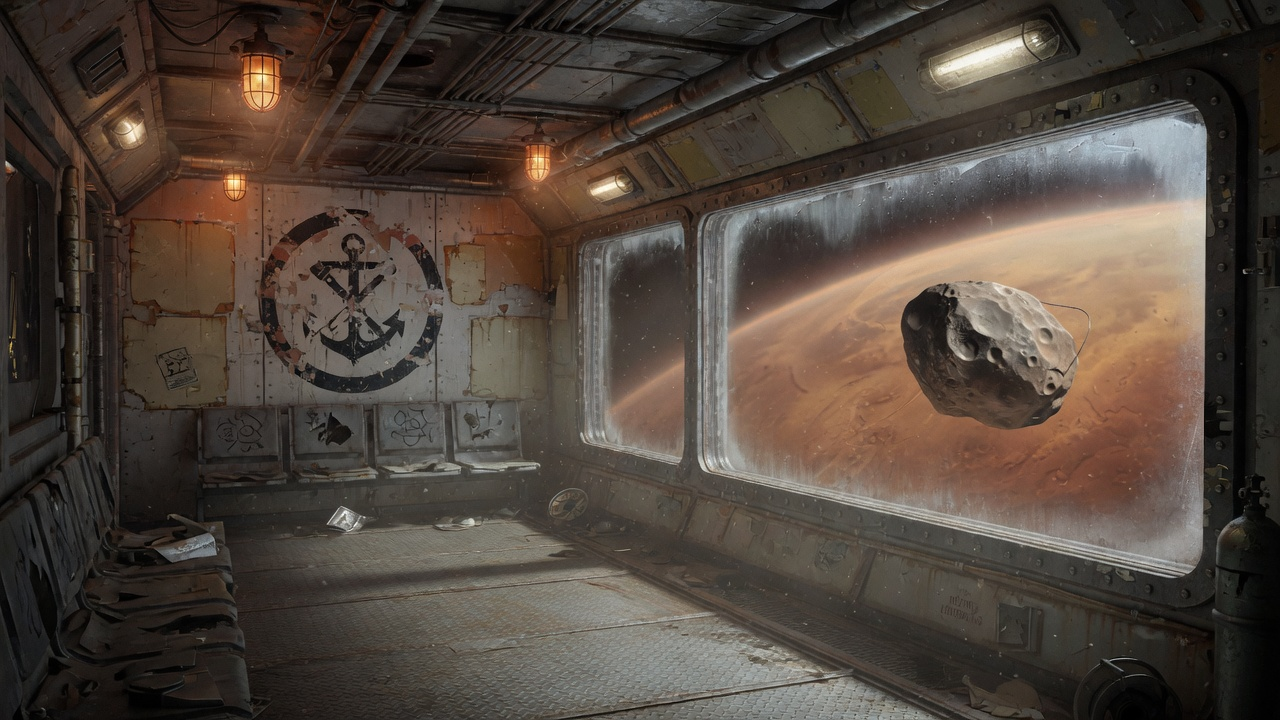
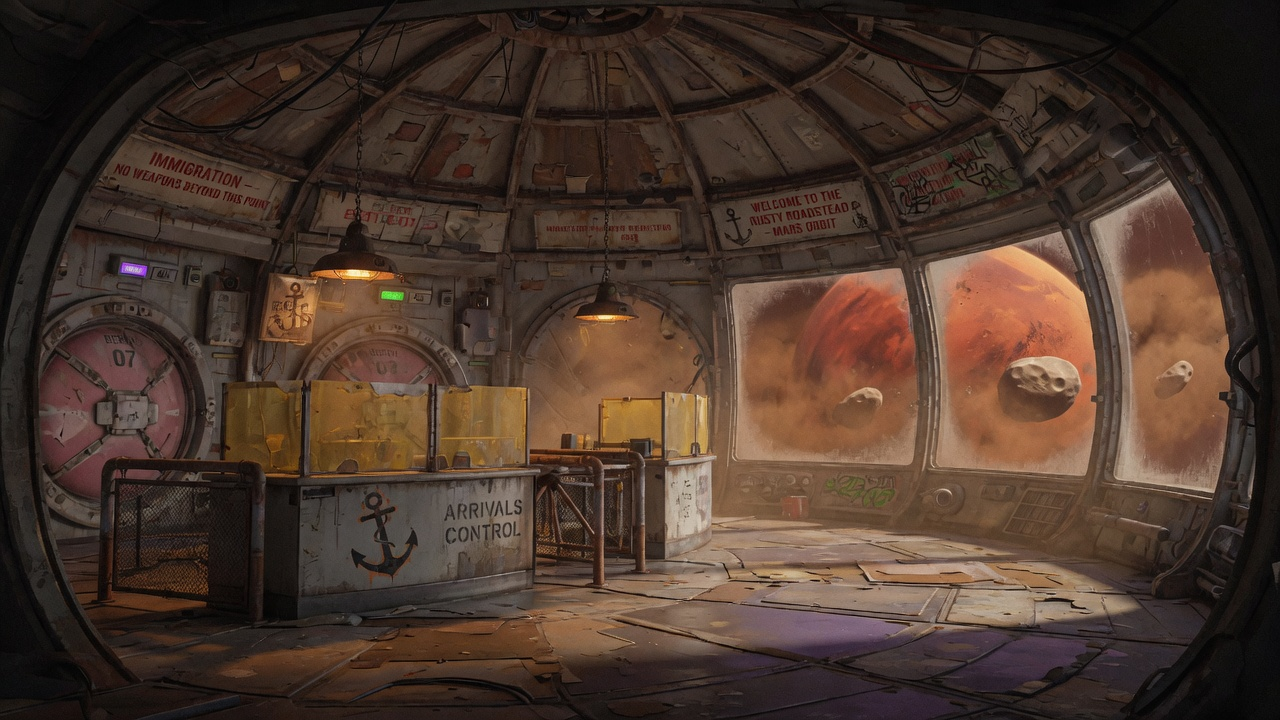
Every station gets its own bar: spec-driven walkable interiors
Generalize the Rusty Roadstead kit (airlock vestibule -> tube -> round
immigration hall -> bar) so every walkable haven is data, not hand-code.

- HavenInterior.BuildComplex(StationSpec) builds the one shared geometry; a
  StationSpec supplies the name, immigration authority, a deadpan wall-quip, the
  bar's name, and the two Gen-AI backdrops (hall + bar). Specs[] lists the four
  havens; DockedDeck builds+caches one complex per station on first dock.
  Adding an interior station is now: a scenario body + a one-line spec + 2 images.
- Three new stations, each themed to its world with its own grok backdrops:
  Cinder Roost (Venus' sulphur clouds / The Cinder Lounge), Ringside Exchange
  (Saturn's rings / The Ringside Bar), The Tilt (Uranus, sideways rings, cold and
  lonely / The Tilt Bar). Every hall shows its world's berth-hatch concourse and
  every bar its planet through a viewport.
- Start points now cover all four docked (?start=cinder-roost|space-bar|ringside
  |the-tilt) via a DockedStarts id->body map reusing the one docked-arrival path
  in ApplyStart / PlaceShipForStart.
- Resized the Rusty Roadstead hall backdrop to ~16:9 so the domed concourse art
  isn't vertically stretched.

Verified in-browser: walked into Ringside and Cinder Roost (correct per-station
names, quips, immigration authority, and planet view); no console errors. The
Tilt shares the identical code path. Build clean, 0 warnings.
[…]

diff --git a/src/SpaceSails.Client/Rendering/HavenInterior.cs b/src/SpaceSails.Client/Rendering/HavenInterior.cs
@@ -2,31 +2,61 @@ namespace SpaceSails.Client.Rendering;
 
 /// <summary>
 /// Walkable haven interiors — the "go ashore" side of docking (2026-07-07; walk-through tube +
-/// round immigration hall + bar, 2026-07-08). A client-side <c>bodyId → </c><see cref="DeckPlan"/>.
+/// round immigration hall + bar, 2026-07-08; spec-driven for every station, 2026-07-08).
 ///
 /// The Expanse model (owner): docking mates the ship's airlock to the station by a <b>narrow
-/// umbilical with automatic doors</b>, and you <b>walk</b> across — no teleport. And the station is
-/// much bigger than the ship: a small-airport-sized structure. So a docked haven welds, in one
-/// coordinate space: the ship (airlock a defensible port vestibule) → the tube → a <b>big round
-/// entrance hall</b> (a 12-sided ring — <b>10 other berths' hatches sealed</b>, so it reads like a
-/// station with a dozen ships docked; a Mars-immigration desk, à la Total Recall; signage) → a wide
-/// door → the <b>bar</b>, tables you walk up to. The top-down view follows you
-/// (<see cref="DeckPlan.FollowCam"/>); the welded deck is ~80 du long.
+/// umbilical with automatic doors</b>, and you <b>walk</b> across — no teleport. Each station is far
+/// bigger than the ship (small-airport-sized) and <b>each one is different</b>, named for and themed
+/// to where it sits. So a docked haven welds, in one coordinate space: the ship (airlock a defensible
+/// port vestibule) → the tube → a <b>big round entrance hall</b> (a 12-sided ring — 10 other berths'
+/// hatches sealed, so it reads like a dozen ships are docked; a Total-Recall immigration desk;
+/// signage) → a wide door → the <b>bar</b>, tables you walk up to. Confidential work (owner) changes
+/// hands here, face to face at a table — no electronic trace. The top-down view follows you
+/// (<see cref="DeckPlan.FollowCam"/>).
 ///
-/// First up: <b>The Rusty Roadstead</b> off Mars — rust-red planet and Phobos out the hall glass.
+/// Every station shares one geometry <see cref="BuildComplex"/>; a <see cref="StationSpec"/> supplies
+/// the name, the immigration authority, the deadpan quip, and the two Gen-AI backdrops (hall + bar).
 /// </summary>
 public static class HavenInterior
 {
+    /// <summary>One walkable station: which body, what it's called, and its themed dressing.</summary>
+    private sealed record StationSpec(
+        string BodyId, string Name, string Authority, string Quip, string BarName,
+        string HallArt, string BarArt);
+
+    // The grey-market docks with walkable interiors, each themed to its world (vision par. 8).
+    private static readonly StationSpec[] Specs =
+    [
+        new("the-space-bar", "THE RUSTY ROADSTEAD", "MARS", "most guests stay two weeks", "THE ROADSTEAD BAR",
+            "art/the-rusty-roadstead-lobby.jpg", "art/the-roadstead-bar.jpg"),
+        new("cinder-roost", "CINDER ROOST", "VENUS", "mind the sulphur, spacer", "THE CINDER LOUNGE",
+            "art/cinder-roost-hall.jpg", "art/cinder-roost-bar.jpg"),
+        new("ringside-exchange", "RINGSIDE EXCHANGE", "SATURN", "trade fast — the rings don't wait", "THE RINGSIDE BAR",
+            "art/ringside-hall.jpg", "art/ringside-bar.jpg"),
+        new("the-tilt", "THE TILT", "URANUS", "everything's sideways out here", "THE TILT BAR",
+            "art/the-tilt-hall.jpg", "art/the-tilt-bar.jpg"),
+    ];
+
+    private static readonly Dictionary<string, DeckPlan> Cache = new();
+
     /// <summary>Does this haven have a walkable interior (so docking should weld on a tube)?</summary>
-    public static bool HasInterior(string bodyId) => bodyId == "the-space-bar";
+    public static bool HasInterior(string bodyId) => System.Array.Exists(Specs, s => s.BodyId == bodyId);
 
     /// <summary>The docked complex for a body — ship + tube + hall + bar as one walkable plan — or
-    /// null if that haven has no deck to walk (yet). Built once, lazily, and shared.</summary>
-    public static DeckPlan? DockedDeck(string bodyId) => bodyId switch
+    /// null if that haven has no deck to walk. Built once per station, lazily, and shared.</summary>
+    public static DeckPlan? DockedDeck(string bodyId)
     {
-        "the-space-bar" => RustyRoadstead.Value,
-        _ => null,
-    };
+        if (System.Array.Find(Specs, s => s.BodyId == bodyId) is not { } spec)
+        {
+            return null;
+        }
+        if (!Cache.TryGetValue(bodyId, out DeckPlan? deck))
+        {
+            deck = BuildComplex(spec);
+            Cache[bodyId] = deck;
+        }
+        return deck;
+    }
 
     // --- The docking-tube umbilical (deck units), mouthing at the ship's airlock vestibule hatch ---
     private const float TubeLeft = 1f;      // the narrow walkway's port wall (hatch gap is x 1..4)
@@ -42,130 +72,127 @@ public static class HavenInterior
     private static readonly float HallBottomY = HallCenterY - HallApothem; // the tube mates here (south edge)
     private static readonly float HallTopY = HallCenterY + HallApothem;    // the bar opens off here (north edge)
 
-    // --- The bar, off the hall's north door — big and cavernous, a red-planet view along the back ---
+    // --- The bar, off the hall's north door — big and cavernous, a local-planet view along the back ---
     private const float BarLeft = -14f;
     private const float BarRight = 19f;
     private static readonly float BarTopY = HallTopY + 22f;
 
-    private static class RustyRoadstead
+    private static float Lerp(float a, float b, float t) => a + (b - a) * t;
+
+    private static DeckPlan BuildComplex(StationSpec spec)
     {
-        internal static readonly DeckPlan Value = Build();
+        DeckPlan ship = DeckPlan.Ship;
 
-        private static float Lerp(float a, float b, float t) => a + (b - a) * t;
+        // The bare ship seals its airlock hatch (x 1..4); the complex opens it and mates the tube.
+        var hatch = new DeckPlan.Wall(1, ShipHatchY, 4, ShipHatchY, false, true);
 
-        private static DeckPlan Build()
+        var walls = new List<DeckPlan.Wall>(ship.Walls.Where(w => !w.Equals(hatch)));
+        var doors = new List<DeckPlan.Door>();
+        var labels = new List<(float X, float Y, string Text)>(ship.RoomLabels);
+
+        // Tube: the umbilical from the ship's hatch up to the hall's south edge.
+        walls.Add(new(TubeLeft, ShipHatchY, TubeLeft, HallBottomY, false, true));
+        walls.Add(new(TubeRight, ShipHatchY, TubeRight, HallBottomY, false, true));
+        doors.Add(new(TubeLeft, ShipHatchY + 1, TubeRight, ShipHatchY + 1)); // ship-end auto door
+        doors.Add(new(TubeLeft, HallBottomY - 1, TubeRight, HallBottomY - 1)); // hall-end auto door
+
+        // The round hall ring. Vertices at (15 + 30k)°, so edges are centred on the compass points;
+        // edge 8 faces south (our tube) and edge 2 faces north (the bar). Every other edge is a
+        // sealed berth — a real wall with a cold "locked" hatch drawn on it and a BERTH sign inside.
+        var v = new (float X, float Y)[HallSides];
+        for (int k = 0; k < HallSides; k++)
         {
-            DeckPlan ship = DeckPlan.Ship;
-
-            // The bare ship seals its airlock hatch (x 1..4); the complex opens it and mates the tube.
-            var hatch = new DeckPlan.Wall(1, ShipHatchY, 4, ShipHatchY, false, true);
-
-            var walls = new List<DeckPlan.Wall>(ship.Walls.Where(w => !w.Equals(hatch)));
-            var doors = new List<DeckPlan.Door>();
-            var labels = new List<(float X, float Y, string Text)>(ship.RoomLabels);
-
-            // Tube: the umbilical from the ship's hatch up to the hall's south edge.
-            walls.Add(new(TubeLeft, ShipHatchY, TubeLeft, HallBottomY, false, true));
-            walls.Add(new(TubeRight, ShipHatchY, TubeRight, HallBottomY, false, true));
-            doors.Add(new(TubeLeft, ShipHatchY + 1, TubeRight, ShipHatchY + 1)); // ship-end auto door
-            doors.Add(new(TubeLeft, HallBottomY - 1, TubeRight, HallBottomY - 1)); // hall-end auto door
-
-            // The round hall ring. Vertices at (15 + 30k)°, so edges are centred on the compass points;
-            // edge 8 faces south (our tube) and edge 2 faces north (the bar). Every other edge is a
-            // sealed berth — a real wall with a cold "locked" hatch drawn on it and a BERTH sign inside.
-            var v = new (float X, float Y)[HallSides];
-            for (int k = 0; k < HallSides; k++)
-            {
-                double a = (15 + 30 * k) * System.Math.PI / 180.0;
-                v[k] = (HallCenterX + HallR * (float)System.Math.Cos(a), HallCenterY + HallR * (float)System.Math.Sin(a));
-            }
-
-            int berth = 2; // our own berth is #1
-            for (int k = 0; k < HallSides; k++)
-            {
-                (float X, float Y) a = v[k], b = v[(k + 1) % HallSides];
-                if (k == 8) // south edge: our tube mouth (gap x 1..4)
-                {
-                    walls.Add(new(a.X, a.Y, TubeLeft, a.Y, false, true));
-                    walls.Add(new(TubeRight, b.Y, b.X, b.Y, false, true));
-                }
-                else if (k == 2) // north edge: the wide door to the bar (gap x -1..6)
-                {
-                    walls.Add(new(a.X, a.Y, 6, a.Y, false, true));
-                    walls.Add(new(-1, b.Y, b.X, b.Y, false, true));
-                    doors.Add(new(-1, a.Y, 6, a.Y)); // wide auto door
-                }
-                else // a sealed berth
-                {
-                    walls.Add(new(a.X, a.Y, b.X, b.Y, false, true));
-                    doors.Add(new(Lerp(a.X, b.X, 0.25f), Lerp(a.Y, b.Y, 0.25f),
-                                  Lerp(a.X, b.X, 0.75f), Lerp(a.Y, b.Y, 0.75f), Locked: true));
-                    float mx = (a.X + b.X) / 2, my = (a.Y + b.Y) / 2;
-                    labels.Add((HallCenterX + (mx - HallCenterX) * 0.8f, HallCenterY + (my - HallCenterY) * 0.8f, $"⚓{berth:00}"));
-                    berth++;
-                }
-            }
-
-            // Mars-immigration desk (Total Recall): two counters with a central GATE aligned to the
-            // tube, so you walk straight off the umbilical through the checkpoint. Officer to one side.
-            float deskY = HallBottomY + 6;
-            walls.Add(new(-7, deskY, 1, deskY, false, false)); // counter, port of the gate
-            walls.Add(new(4, deskY, 9, deskY, false, false));  // counter, starboard of the gate (gate gap x 1..4)
-            labels.Add((HallCenterX, HallBottomY + 7.5f, "MARS IMMIGRATION"));
-            labels.Add((HallCenterX, HallBottomY + 2.5f, "most guests stay two weeks"));
-            labels.Add((HallCenterX, HallCenterY + 3, "⚓ THE RUSTY ROADSTEAD"));
-
-            // The bar, off the hall's north door.
-            walls.Add(new(BarLeft, HallTopY, -1, HallTopY, false, true));   // bar floor wall, port of the door
-            walls.Add(new(6, HallTopY, BarRight, HallTopY, false, true));   // bar floor wall, starboard of the door
-            walls.Add(new(BarLeft, HallTopY, BarLeft, BarTopY, false, true));
-            walls.Add(new(BarRight, HallTopY, BarRight, BarTopY, false, true));
-            walls.Add(new(BarLeft, BarTopY, BarRight, BarTopY, true, true)); // spinward window onto space
-            labels.Add((HallCenterX, BarTopY - 3, "THE ROADSTEAD BAR"));
-
-            // The bar's regulars, each at a table — walk up and press E. Drop the ship's ⚓ gangway.
-            var consoles = new List<DeckPlan.ConsoleSpot>(ship.Consoles.Where(c => c.Kind != DeckPlan.ConsoleKind.Airlock))
-            {
-                new(DeckPlan.ConsoleKind.BarPatron, -9, HallTopY + 6, "◈ ONE-EYE SILAS"),
-                new(DeckPlan.ConsoleKind.BarPatron, 14, HallTopY + 6, "◈ MADAM COIL"),
-                new(DeckPlan.ConsoleKind.BarPatron, 2.5f, HallTopY + 11, "◈ GILT-EYE"),
-            };
-
-            // Seven tables spread across the big room — three taken by the regulars, four open (for a
-            // stranger to drift over, later) — plus the ship's own cantina tables.
-            var tables = new List<(float X, float Y)>(ship.Tables)
-            {
-                (-9, HallTopY + 6), (14, HallTopY + 6), (2.5f, HallTopY + 11),
-                (-9, HallTopY + 16), (14, HallTopY + 16), (-3, HallTopY + 18), (8, HallTopY + 18),
-            };
-
-            DeckPlan.Backdrop[] backdrops =
-            [
-                .. ship.Backdrops,
-                // Lobby art inscribed in the round hall (square within the 12-gon so it doesn't bleed past the walls).
-                new("art/the-rusty-roadstead-lobby.jpg", HallCenterX - 12, HallCenterY + 12, 24, 24, 0.95f),
-                new("art/the-roadstead-bar.jpg", BarLeft, BarTopY, BarRight - BarLeft, BarTopY - HallTopY, 0.95f),
-            ];
-
-            return new DeckPlan(walls.ToArray(), consoles.ToArray(), labels.ToArray(), backdrops,
-                spawnX: 2.5, spawnY: 6, // aboard, in the airlock corridor, facing up the tube
-                droidCount: 7, fillDroids: FillComplexDroids,
-                location: static (x, y) => y > HallTopY ? "THE ROADSTEAD BAR"
-                                         : y > HallBottomY ? "MARS IMMIGRATION"
-                                         : y > ShipHatchY ? "GANGWAY"
-                                         : DeckPlan.Ship.Location(x, y),
-                doors: doors.ToArray(), shipFixtures: true, followCam: true, tables: tables.ToArray());
+            double a = (15 + 30 * k) * System.Math.PI / 180.0;
+            v[k] = (HallCenterX + HallR * (float)System.Math.Cos(a), HallCenterY + HallR * (float)System.Math.Sin(a));
         }
 
-        // Ship's three droids, the immigration officer, and the three seated bar regulars.
-        private static void FillComplexDroids(double simTime, DeckPlan.Droid[] buffer)
+        int berth = 2; // our own berth is #1
+        for (int k = 0; k < HallSides; k++)
         {
-            DeckPlan.Ship.FillDroids(simTime, buffer); // fills [0..3)
-            double sway = 0.05 * System.Math.Sin(simTime * 0.0009);
-            buffer[3] = new DeckPlan.Droid(6.5, HallBottomY + 7, -System.Math.PI / 2, "Customs"); // officer beside the gate
-            buffer[4] = new DeckPlan.Droid(-9, HallTopY + 7 + sway, -System.Math.PI / 2, "Silas");
-            buffer[5] = new DeckPlan.Droid(14, HallTopY + 7 - sway, -System.Math.PI / 2, "Coil");
-            buffer[6] = new DeckPlan.Droid(2.5, HallTopY + 12 + sway, -System.Math.PI / 2, "Gilt-Eye");
+            (float X, float Y) a = v[k], b = v[(k + 1) % HallSides];
+            if (k == 8) // south edge: our tube mouth (gap x 1..4)
+            {
+                walls.Add(new(a.X, a.Y, TubeLeft, a.Y, false, true));
+                walls.Add(new(TubeRight, b.Y, b.X, b.Y, false, true));
+            }
+            else if (k == 2) // north edge: the wide door to the bar (gap x -1..6)
+            {
+                walls.Add(new(a.X, a.Y, 6, a.Y, false, true));
+                walls.Add(new(-1, b.Y, b.X, b.Y, false, true));
+                doors.Add(new(-1, a.Y, 6, a.Y)); // wide auto door
+            }
+            else // a sealed berth
+            {
+                walls.Add(new(a.X, a.Y, b.X, b.Y, false, true));
+                doors.Add(new(Lerp(a.X, b.X, 0.25f), Lerp(a.Y, b.Y, 0.25f),
+                              Lerp(a.X, b.X, 0.75f), Lerp(a.Y, b.Y, 0.75f), Locked: true));
+                float mx = (a.X + b.X) / 2, my = (a.Y + b.Y) / 2;
+                labels.Add((HallCenterX + (mx - HallCenterX) * 0.8f, HallCenterY + (my - HallCenterY) * 0.8f, $"⚓{berth:00}"));
+                berth++;
+            }
         }
+
+        // Immigration desk (Total Recall): two counters with a central GATE aligned to the tube, so
+        // you walk straight off the umbilical through the checkpoint. Officer to one side.
+        float deskY = HallBottomY + 6;
+        walls.Add(new(-7, deskY, 1, deskY, false, false)); // counter, port of the gate
+        walls.Add(new(4, deskY, 9, deskY, false, false));  // counter, starboard of the gate (gate gap x 1..4)
+        labels.Add((HallCenterX, HallBottomY + 7.5f, $"{spec.Authority} IMMIGRATION"));
+        labels.Add((HallCenterX, HallBottomY + 2.5f, spec.Quip));
+        labels.Add((HallCenterX, HallCenterY + 3, $"⚓ {spec.Name}"));
+
+        // The bar, off the hall's north door.
+        walls.Add(new(BarLeft, HallTopY, -1, HallTopY, false, true));   // bar floor wall, port of the door
+        walls.Add(new(6, HallTopY, BarRight, HallTopY, false, true));   // bar floor wall, starboard of the door
+        walls.Add(new(BarLeft, HallTopY, BarLeft, BarTopY, false, true));
+        walls.Add(new(BarRight, HallTopY, BarRight, BarTopY, false, true));
+        walls.Add(new(BarLeft, BarTopY, BarRight, BarTopY, true, true)); // spinward window onto space
+        labels.Add((HallCenterX, BarTopY - 3, spec.BarName));
+
+        // The bar's regulars, each at a table — walk up and press E. Drop the ship's ⚓ gangway.
+        var consoles = new List<DeckPlan.ConsoleSpot>(ship.Consoles.Where(c => c.Kind != DeckPlan.ConsoleKind.Airlock))
+        {
+            new(DeckPlan.ConsoleKind.BarPatron, -9, HallTopY + 6, "◈ ONE-EYE SILAS"),
+            new(DeckPlan.ConsoleKind.BarPatron, 14, HallTopY + 6, "◈ MADAM COIL"),
+            new(DeckPlan.ConsoleKind.BarPatron, 2.5f, HallTopY + 11, "◈ GILT-EYE"),
+        };
+
+        // Seven tables spread across the big room — three taken by the regulars, four open (for a
+        // stranger to drift over, later) — plus the ship's own cantina tables.
+        var tables = new List<(float X, float Y)>(ship.Tables)
+        {
+            (-9, HallTopY + 6), (14, HallTopY + 6), (2.5f, HallTopY + 11),
+            (-9, HallTopY + 16), (14, HallTopY + 16), (-3, HallTopY + 18), (8, HallTopY + 18),
+        };
+
+        DeckPlan.Backdrop[] backdrops =
+        [
+            .. ship.Backdrops,
+            // Concourse art across the round hall — sized ~16:9 to match the image so the domed ceiling
+            // isn't stretched; fills the hall's width, floor showing at the very top/bottom.
+            new(spec.HallArt, HallCenterX - 16, HallCenterY + 9, 32, 18, 0.95f),
+            new(spec.BarArt, BarLeft, BarTopY, BarRight - BarLeft, BarTopY - HallTopY, 0.95f),
+        ];
+
+        return new DeckPlan(walls.ToArray(), consoles.ToArray(), labels.ToArray(), backdrops,
+            spawnX: 2.5, spawnY: 6, // aboard, in the airlock corridor, facing up the tube
+            droidCount: 7, fillDroids: FillComplexDroids,
+            location: (x, y) => y > HallTopY ? spec.BarName
+                              : y > HallBottomY ? $"{spec.Authority} IMMIGRATION"
+                              : y > ShipHatchY ? "GANGWAY"
+                              : DeckPlan.Ship.Location(x, y),
+            doors: doors.ToArray(), shipFixtures: true, followCam: true, tables: tables.ToArray());
+    }
+
+    // Ship's three droids, the immigration officer, and the three seated bar regulars. Shared across
+    // every station (one geometry); deterministic in sim time, stateless.
+    private static void FillComplexDroids(double simTime, DeckPlan.Droid[] buffer)
+    {
+        DeckPlan.Ship.FillDroids(simTime, buffer); // fills [0..3)
+        double sway = 0.05 * System.Math.Sin(simTime * 0.0009);
+        buffer[3] = new DeckPlan.Droid(6.5, HallBottomY + 7, -System.Math.PI / 2, "Customs"); // officer beside the gate
+        buffer[4] = new DeckPlan.Droid(-9, HallTopY + 7 + sway, -System.Math.PI / 2, "Silas");
+        buffer[5] = new DeckPlan.Droid(14, HallTopY + 7 - sway, -System.Math.PI / 2, "Coil");
+        buffer[6] = new DeckPlan.Droid(2.5, HallTopY + 12 + sway, -System.Math.PI / 2, "Gilt-Eye");
     }
 }

diff --git a/docs/features/haven-interior-walk.md b/docs/features/haven-interior-walk.md
@@ -266,11 +266,43 @@ demo-only: it's also a genuine "where does this run begin?" choice ("why always 
 - **Schema now or later?** The `bodyId → plan` map (`HavenInterior`) avoids touching `Scenario.cs`.
   Add a real per-body interior/flavor field only when several havens each want a rich room.
 
+### Every station gets its own bar (2026-07-08)
+
+The Rusty Roadstead's kit (airlock vestibule → tube → round immigration hall → bar) is now
+**spec-driven**: `HavenInterior.BuildComplex(StationSpec)` builds the one geometry, and a
+`StationSpec` supplies the name, the immigration authority, a deadpan quip, the bar's name, and the
+two Gen-AI backdrops (hall + bar). `Specs[]` lists the four walkable havens; `DockedDeck` builds and
+caches one complex per station on first dock. **Adding an interior station is now: a scenario body +
+a one-line spec + two images.**
+
+| Station | World | Immigration | Bar | Quip |
+|---|---|---|---|---|
+| The Rusty Roadstead | Mars | MARS | The Roadstead Bar | "most guests stay two weeks" |
+| Cinder Roost | Venus' clouds | VENUS | The Cinder Lounge | "mind the sulphur, spacer" |
+| Ringside Exchange | Saturn's rings | SATURN | The Ringside Bar | "trade fast — the rings don't wait" |
+| The Tilt | Uranus | URANUS | The Tilt Bar | "everything's sideways out here" |
+
+Each hall/bar backdrop shows that world out the glass (Venus' sulphur banks, Saturn's rings, Uranus'
+sideways rings). **Start points** now cover all four docked (`?start=cinder-roost|space-bar|ringside|the-tilt`)
+via a `DockedStarts` id→body map that reuses the one docked-arrival path in `ApplyStart`.
+
+Still shared across every station (deliberately, for now): the three regulars (Silas / Coil /
+Gilt-Eye) and the immigration officer — same faces, different view. Per-station strangers can come
+with the multi-location missions.
+
+### Multi-location, off-the-books missions (next)
+
+The owner's frame: the **confidential** jobs are handed over **face to face at a bar table — no
+electronic trace** — which is exactly why they can't ride the public web board. So a mission is
+picked up at one station's table and **delivered at another** (e.g. a lost crypto-wallet stashed in a
+derelict roadster you go find, then hand off at a different bar). This wants: a fetch/derelict
+objective, a deliver-elsewhere objective, and per-giver strangers. Builds on Coil's existing
+cross-haven cargo-run (already "dock at the destination to complete").
+
 ## Later (beyond the follow-up)
 
-Distinct interiors for Cinder Roost / Ringside / The Tilt; a real bounty/contract accept-flow if the
-"front for existing systems" wiring proves too thin; heat visibly cooling while ashore; a "third tot"
-style bar event; fencing cargo at the bar.
+A real bounty/contract accept-flow if the "front for existing systems" wiring proves too thin; heat
+visibly cooling while ashore; a "third tot" style bar event; fencing cargo at the bar.
 
 See also: [deck-view.md](deck-view.md), [dock-and-economy.md](dock-and-economy.md),
 [wolf-aim.md](wolf-aim.md), [dark-web.md](dark-web.md), `docs/MondayPonder/3DRenovationPlan.md`.